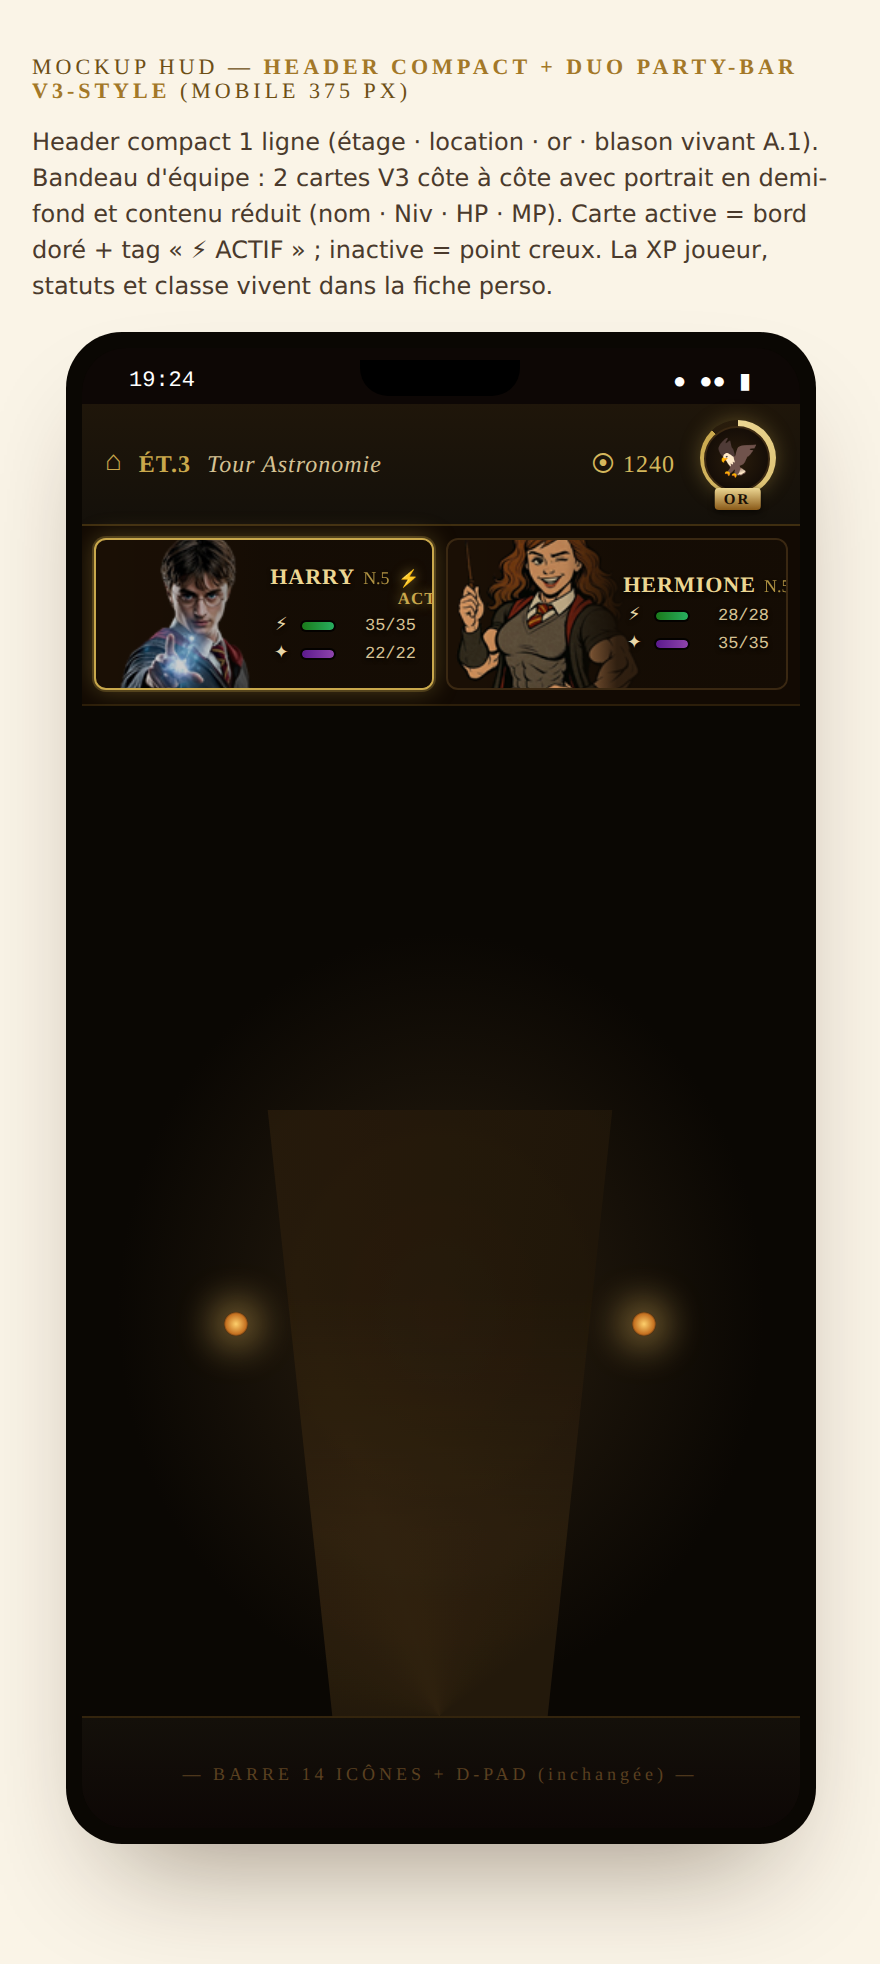
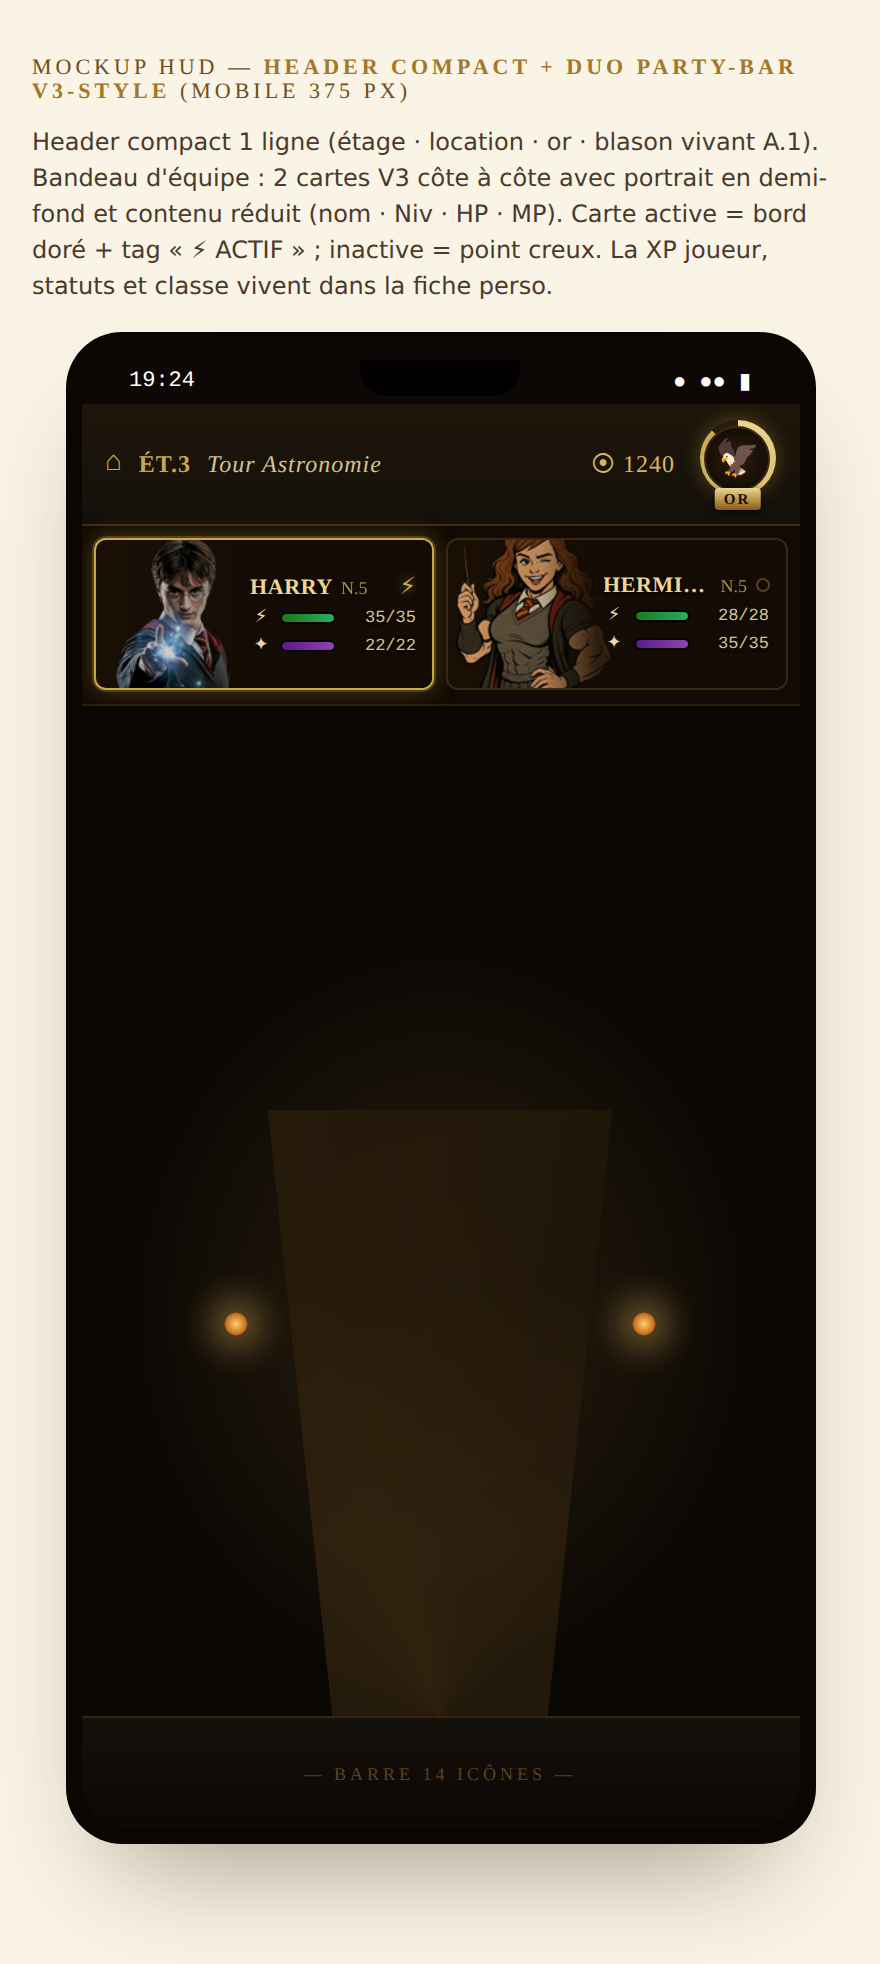
mockup(hud): resserre le contenu des cartes pour tenir à 375 px
Portrait en fond 58→50 %, voile recalé, picto ⚡ remplace le tag texte
« ACTIF » qui dépassait. Ellipsis sur la location header.

https://claude.ai/code/session_012k1pUrm4DfNMiR8J3VrdjZ

Changed region(s): [[0.5216, 0.2485, 0.8591, 0.3727], [0.1227, 0.2795, 0.4909, 0.3727], [0.5523, 0.9007, 0.583, 0.9318]]

diff --git a/.claude/mockups/hud-duo-v3.html b/.claude/mockups/hud-duo-v3.html
@@ -58,8 +58,13 @@
   }
   .ghd-house  { font-size: 14px; }
   .ghd-floor  { font-weight: 700; }
-  .ghd-loc    { color: #d6c294; font-style: italic; font-family: 'Crimson Text', serif; font-size: 12px; }
-  .ghd-gold   { margin-left: auto; color: #d4b75c; font-size: 12px; }
+  .ghd-loc    {
+    color: #d6c294; font-style: italic;
+    font-family: 'Crimson Text', serif; font-size: 12px;
+    flex: 1; min-width: 0;
+    overflow: hidden; text-overflow: ellipsis; white-space: nowrap;
+  }
+  .ghd-gold   { color: #d4b75c; font-size: 12px; flex-shrink: 0; }
 
   /* Blason A.1 — anneau XP radial + ruban tier */
   .crest-wrap {
@@ -122,7 +127,7 @@
   /* Portrait en fond V3 — demi-portrait à gauche, voile dégradé droit */
   .pcard-bg {
     position: absolute; inset: 0;
-    background-size: 58% auto;
+    background-size: 50% auto;
     background-position: left 18%;
     background-repeat: no-repeat;
     filter: brightness(.88) saturate(1.02);
@@ -132,42 +137,43 @@
     background:
       linear-gradient(90deg,
         rgba(0,0,0,0.0)   0%,
-        rgba(0,0,0,0.10)  35%,
-        rgba(20,12,4,0.85) 50%,
-        rgba(20,12,4,0.95) 100%);
+        rgba(0,0,0,0.10)  28%,
+        rgba(20,12,4,0.85) 44%,
+        rgba(20,12,4,0.96) 100%);
   }
   .pcard-content {
     position: relative;
     height: 100%;
-    padding: 6px 8px 6px 52%;
+    padding: 6px 8px 6px 46%;
     display: flex; flex-direction: column; justify-content: center;
     gap: 4px;
   }
   .pname-row {
     display: flex; align-items: baseline; gap: 4px;
     text-shadow: 0 1px 2px rgba(0,0,0,0.85);
+    overflow: hidden; white-space: nowrap;
   }
   .pname {
     font-family: 'Cinzel', serif;
     font-size: 11px;
     color: #ecd692;
-    letter-spacing: 0.5px;
+    letter-spacing: 0.3px;
     font-weight: 700;
+    overflow: hidden; text-overflow: ellipsis;
   }
   .plevel {
     font-family: 'Cinzel', serif;
     font-size: 9px;
     color: #c9a84c;
     opacity: .85;
+    flex-shrink: 0;
   }
   .pactive {
     margin-left: auto;
-    font-family: 'Cinzel', serif;
-    font-size: 8.5px;
-    font-weight: 700;
+    font-size: 12px;
     color: #c9a84c;
-    letter-spacing: 0.5px;
     text-shadow: 0 0 6px rgba(201,168,76,0.7);
+    flex-shrink: 0;
   }
   .pdot {
     margin-left: auto;
@@ -175,6 +181,7 @@
     border-radius: 50%;
     border: 1px solid #5a4020;
     background: rgba(20,12,4,0.55);
+    flex-shrink: 0;
   }
   .bar { display: flex; align-items: center; gap: 4px; }
   .bar-ico { font-size: 9px; width: 11px; text-align: center; text-shadow: 0 1px 2px rgba(0,0,0,0.85); }
@@ -265,7 +272,7 @@
         <div class="pname-row">
           <span class="pname">HARRY</span>
           <span class="plevel">N.5</span>
-          <span class="pactive">⚡ ACTIF</span>
+          <span class="pactive">⚡</span>
         </div>
         <div class="bar"><span class="bar-ico">⚡</span><div class="bar-track"><div class="bar-fill hp" style="width:100%"></div></div><span class="bar-val">35/35</span></div>
         <div class="bar"><span class="bar-ico">✦</span><div class="bar-track"><div class="bar-fill mp" style="width:100%"></div></div><span class="bar-val">22/22</span></div>
@@ -294,7 +301,7 @@
   </div>
 
   <!-- Barre d'actions placeholder -->
-  <div class="cmd-strip">— BARRE 14 ICÔNES + D-PAD (inchangée) —</div>
+  <div class="cmd-strip">— BARRE 14 ICÔNES —</div>
 </div></div>
 
 </body>
